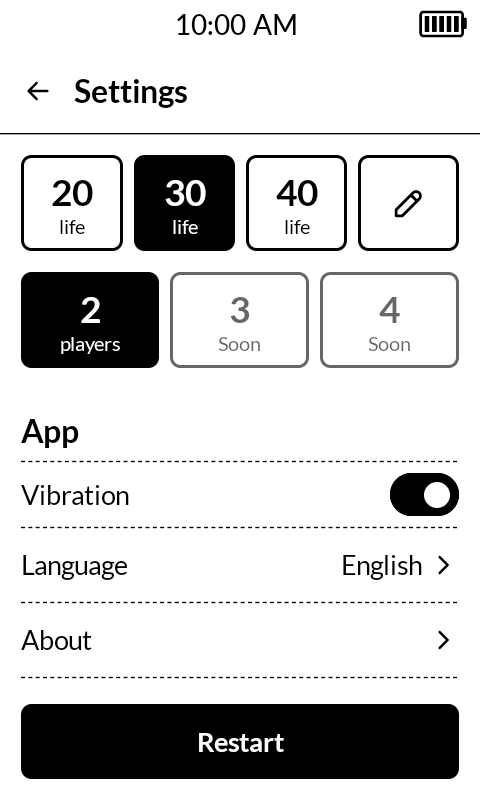
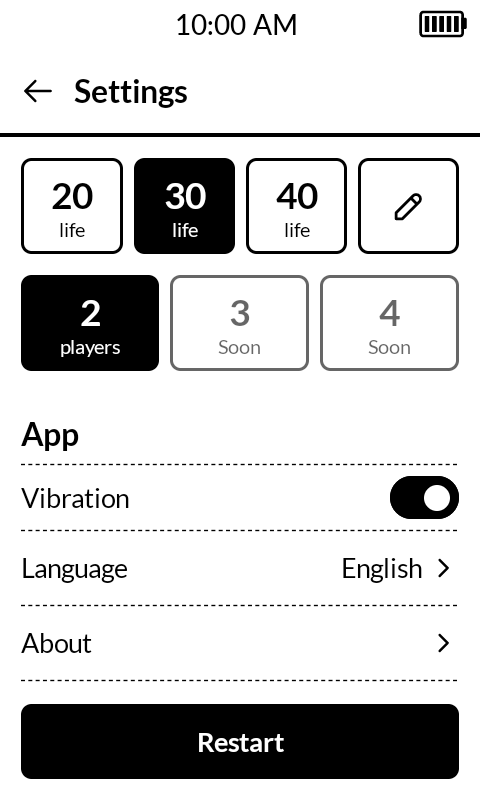
fix(ui): The header line, e-mail copying in About and the back arrow were aligned with MMD (#20)

diff --git a/app/src/main/java/dev/dkarski/tcglivecounter/ui/AboutScreen.kt b/app/src/main/java/dev/dkarski/tcglivecounter/ui/AboutScreen.kt
@@ -4,6 +4,7 @@ import android.content.Context
 import androidx.compose.foundation.Image
 import androidx.compose.foundation.clickable
 import androidx.compose.foundation.layout.Arrangement
+import androidx.compose.foundation.layout.Box
 import androidx.compose.foundation.layout.Column
 import androidx.compose.foundation.layout.PaddingValues
 import androidx.compose.foundation.layout.Row
@@ -31,6 +32,7 @@ import androidx.compose.ui.res.painterResource
 import androidx.compose.ui.res.stringResource
 import androidx.compose.ui.semantics.Role
 import androidx.compose.ui.text.font.FontWeight
+import androidx.compose.ui.text.style.TextDecoration
 import androidx.compose.ui.tooling.preview.Preview
 import androidx.compose.ui.unit.dp
 import com.mudita.mmd.components.text.TextMMD
@@ -38,6 +40,7 @@ import dev.dkarski.tcglivecounter.R
 import dev.dkarski.tcglivecounter.ui.components.DottedDivider
 import dev.dkarski.tcglivecounter.ui.theme.AppTheme
 import kotlinx.coroutines.Dispatchers
+import kotlinx.coroutines.delay
 import kotlinx.coroutines.withContext
 
 /** Static facts shown at the top of About & Support. */
@@ -71,7 +74,7 @@ fun AboutScreen(
                 .verticalScroll(rememberScrollState())
                 .padding(horizontal = 16.dp),
         ) {
-            Header(about, contact, onClick = if (contact?.canOpenEmailApp == true) onContact else onCopyEmail)
+            Header(about, contact, onCopy = onCopyEmail, onWrite = onContact)
             DottedDivider()
             Section(stringResource(R.string.about_privacy)) {
                 Paragraph(R.string.privacy_offline_title, stringResource(R.string.privacy_offline))
@@ -81,7 +84,9 @@ fun AboutScreen(
             }
             Section(stringResource(R.string.about_terms)) {
                 Paragraph(R.string.terms_free_title, stringResource(R.string.terms_free))
-                Paragraph(R.string.terms_liability_title, stringResource(R.string.terms_liability, about.developer, contact?.email.orEmpty()))
+                if (about.developer.isNotBlank() && contact != null) {
+                    Paragraph(R.string.terms_liability_title, stringResource(R.string.terms_liability, about.developer, contact.email))
+                }
             }
             Section(stringResource(R.string.about_licenses)) { OpenSourceLicenses() }
             Section(stringResource(R.string.about_legal)) {
@@ -92,9 +97,17 @@ fun AboutScreen(
     }
 }
 
-/** App icon, name and version, then "Made by", the author and the tappable contact address. */
+/**
+ * App icon, name and version, then "Made by", the author and the contact address.
+ * Tapping the address always copies exactly the address (no label, no whitespace); the address then reads a bold
+ * "Email copied" for [COPIED_MESSAGE_MILLIS]. When an e-mail app exists, a separate "Tap to write an email" link
+ * opens it, so copying never disappears.
+ */
+/** How long the copied address reads "Email copied" before showing the address again. */
+private const val COPIED_MESSAGE_MILLIS = 3_000L
+
 @Composable
-private fun Header(about: AboutInfo, contact: ContactState?, onClick: () -> Unit) {
+private fun Header(about: AboutInfo, contact: ContactState?, onCopy: () -> Unit, onWrite: () -> Unit) {
     Column(
         modifier = Modifier.fillMaxWidth().padding(vertical = 16.dp),
         horizontalAlignment = Alignment.CenterHorizontally,
@@ -104,20 +117,41 @@ private fun Header(about: AboutInfo, contact: ContactState?, onClick: () -> Unit
         TextMMD(about.appName, style = MaterialTheme.typography.titleLarge, fontWeight = FontWeight.Bold)
         TextMMD(stringResource(R.string.about_version, about.version), style = MaterialTheme.typography.bodyMedium)
         Spacer(Modifier.height(12.dp))
-        TextMMD(stringResource(R.string.about_made_by), style = MaterialTheme.typography.bodyMedium)
-        TextMMD(about.developer, style = MaterialTheme.typography.titleMedium, fontWeight = FontWeight.Bold)
+        if (about.developer.isNotBlank()) {
+            TextMMD(stringResource(R.string.about_made_by), style = MaterialTheme.typography.bodyMedium)
+            TextMMD(about.developer, style = MaterialTheme.typography.titleMedium, fontWeight = FontWeight.Bold)
+        }
         if (contact != null) {
-            Column(
-                modifier = Modifier.clickable(onClick = onClick, role = Role.Button, interactionSource = null, indication = null),
-                horizontalAlignment = Alignment.CenterHorizontally,
-            ) {
-                TextMMD(contact.email, style = MaterialTheme.typography.bodyMedium)
-                val hint = when {
-                    contact.canOpenEmailApp -> R.string.settings_contact_tap_email
-                    contact.copied -> R.string.coming_soon_copied
-                    else -> R.string.settings_contact_tap_copy
+            // No status line under the address (it made About scroll on entry): after a tap the address itself reads
+            // "Email copied" for a moment, in the same place, so nothing below moves.
+            var justCopied by remember { mutableStateOf(false) }
+            LaunchedEffect(justCopied) {
+                if (justCopied) {
+                    delay(COPIED_MESSAGE_MILLIS)
+                    justCopied = false
                 }
-                TextMMD(stringResource(hint), style = MaterialTheme.typography.labelMedium)
+            }
+            Box(
+                modifier = Modifier
+                    .clickable(onClick = { onCopy(); justCopied = true }, role = Role.Button, interactionSource = null, indication = null)
+                    .padding(horizontal = 12.dp, vertical = 6.dp),
+                contentAlignment = Alignment.Center,
+            ) {
+                if (justCopied) {
+                    TextMMD(stringResource(R.string.coming_soon_copied), style = MaterialTheme.typography.bodyMedium, fontWeight = FontWeight.Bold)
+                } else {
+                    TextMMD(contact.email, style = MaterialTheme.typography.bodyMedium)
+                }
+            }
+            if (contact.canOpenEmailApp) {
+                TextMMD(
+                    stringResource(R.string.settings_contact_tap_email),
+                    style = MaterialTheme.typography.labelMedium,
+                    textDecoration = TextDecoration.Underline,
+                    modifier = Modifier
+                        .clickable(onClick = onWrite, role = Role.Button, interactionSource = null, indication = null)
+                        .padding(horizontal = 12.dp, vertical = 10.dp),
+                )
             }
         }
     }

diff --git a/app/src/main/java/dev/dkarski/tcglivecounter/ui/components/SecondaryLayout.kt b/app/src/main/java/dev/dkarski/tcglivecounter/ui/components/SecondaryLayout.kt
@@ -17,6 +17,7 @@ import androidx.compose.ui.res.painterResource
 import androidx.compose.ui.res.stringResource
 import androidx.compose.ui.text.font.FontWeight
 import com.mudita.mmd.components.text.TextMMD
+import com.mudita.mmd.components.divider.HorizontalDividerMMD
 import com.mudita.mmd.components.top_app_bar.TopAppBarMMD
 import dev.dkarski.tcglivecounter.R
 
@@ -35,6 +36,8 @@ fun SecondaryLayout(
 ) {
     Column(Modifier.fillMaxSize().background(MaterialTheme.colorScheme.background)) {
         TopAppBarMMD(
+            // MMD 1.0.2 passes its 3 dp divider to width(), so it draws 1 px; native Mudita apps show 3 dp.
+            showDivider = false,
             title = titleContent ?: { TextMMD(title, fontWeight = FontWeight.Bold) },
             navigationIcon = {
                 IconButton(onClick = onBack) {
@@ -43,6 +46,7 @@ fun SecondaryLayout(
             },
             actions = actions,
         )
+        HorizontalDividerMMD()
         Box(Modifier.fillMaxWidth().weight(1f)) { content(PaddingValues()) }
     }
 }
